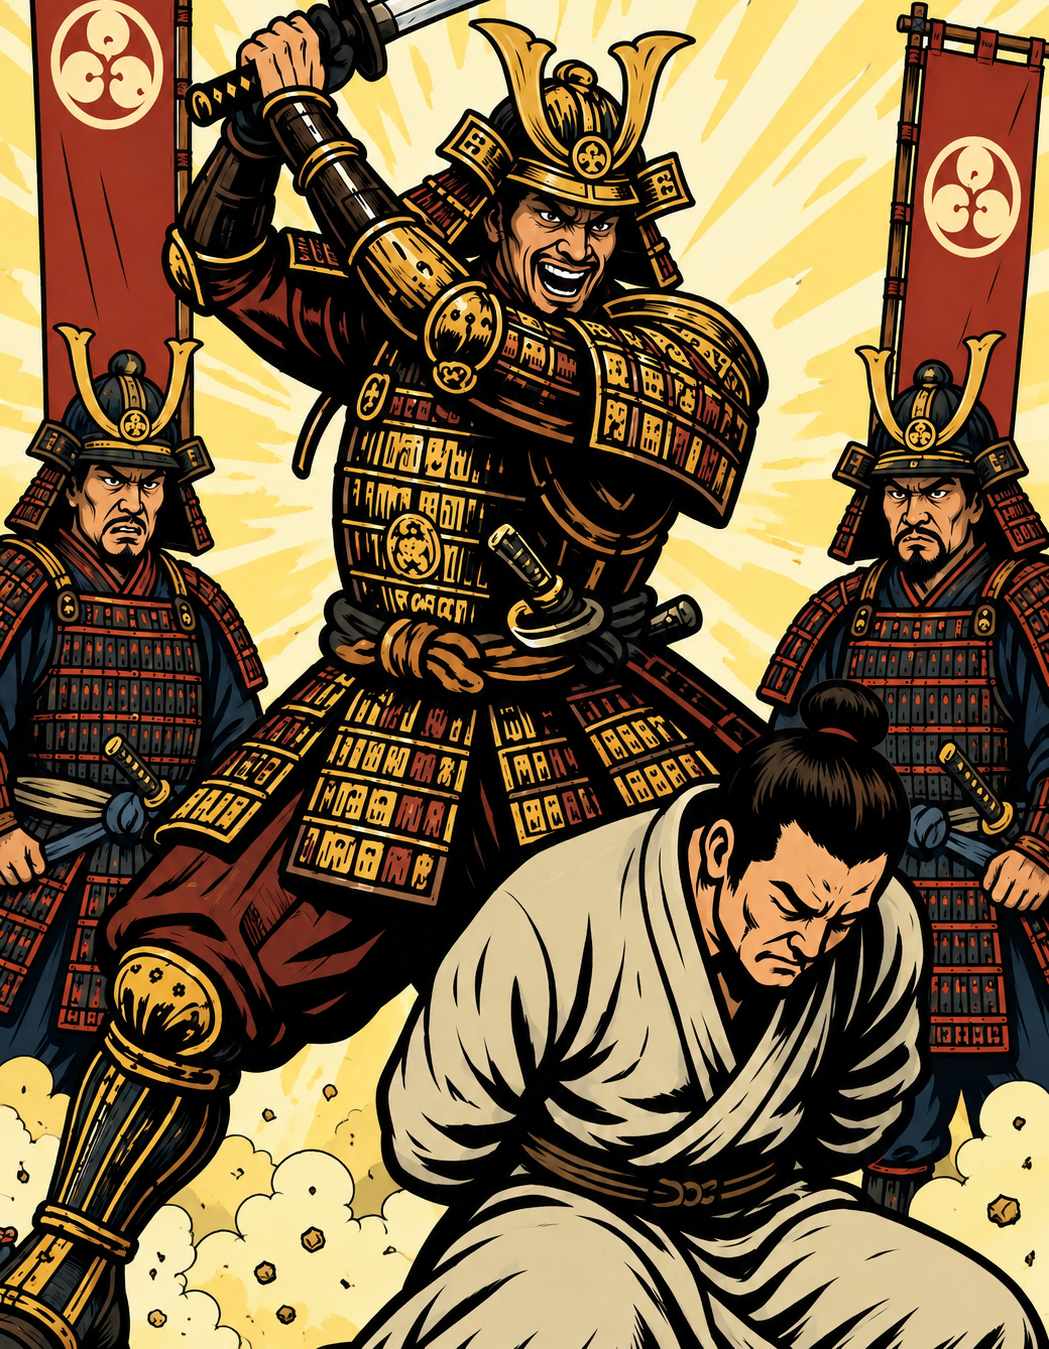
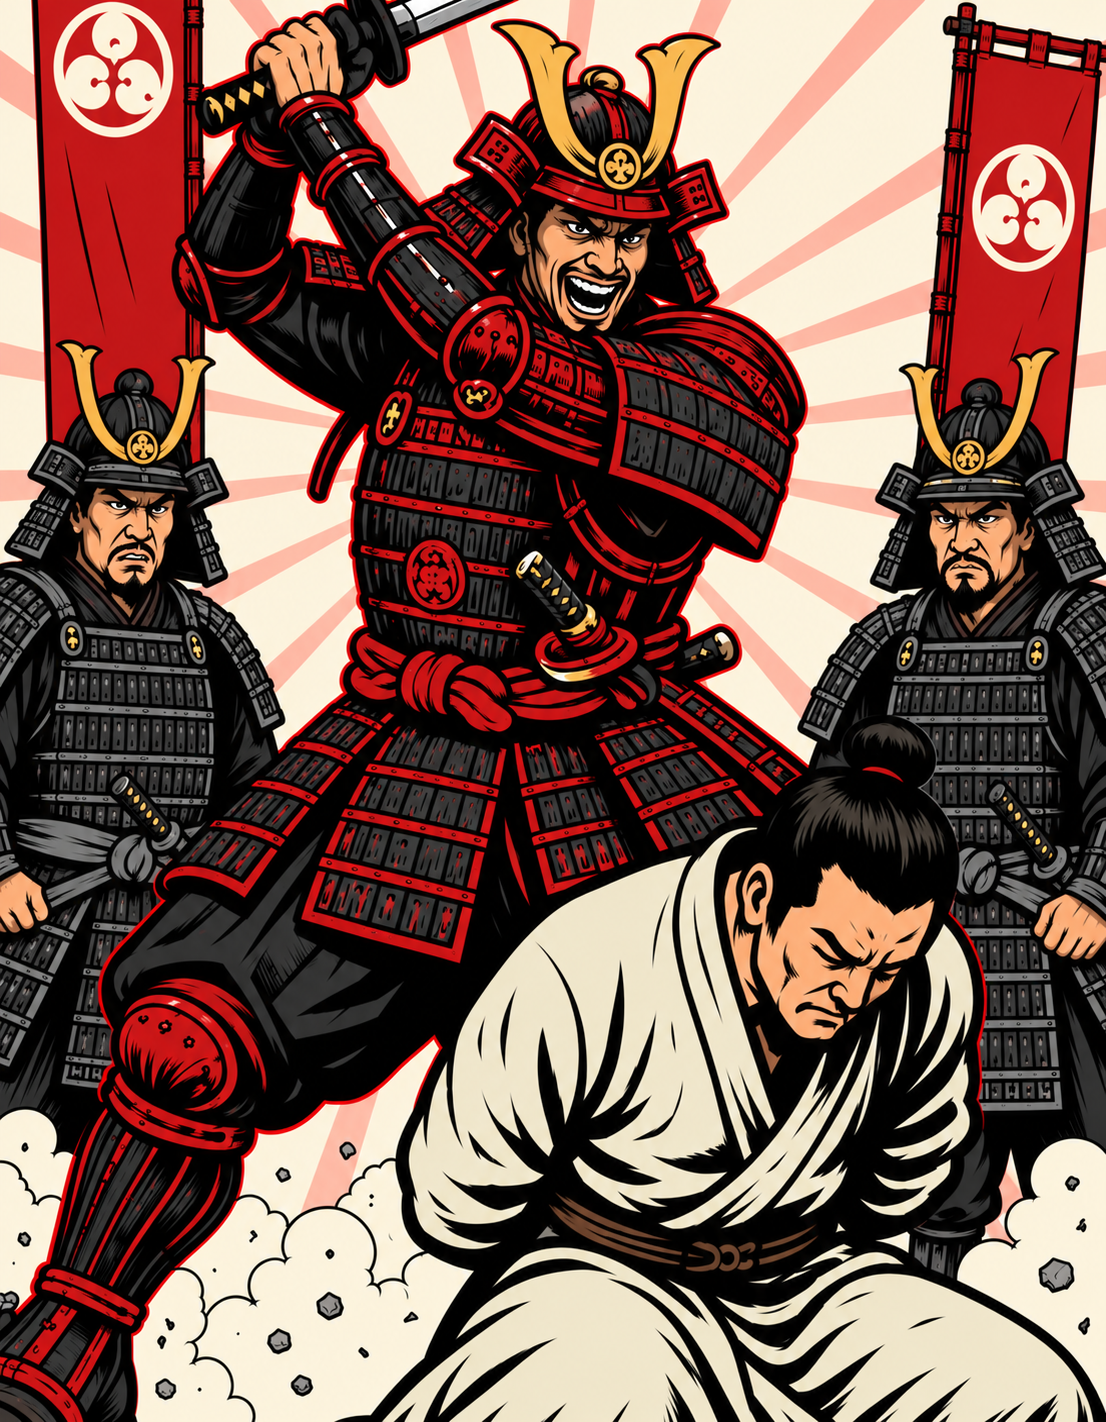
Финальный удар #1081 и Победный удар #1084: новый арт
Арт обеих карт заменён (работа соседней сессии), прежние версии — в
cards/obsolete/ (_v1, у Победного удара ещё _v2_red). Картам поставлен
toPrint. Коммит перед сборкой PDF для депонирования, чтобы снимок на
титуле совпадал с репозиторием.

diff --git a/js/cards.js b/js/cards.js
@@ -1478,7 +1478,7 @@ const CARDS = [
     qty: 1,
     group: "modifier",
     icons: [],
-    tags: [],
+    tags: ["toPrint"],
     desc: "Финальная сила атаки равна количеству недостающих жетонов жизни цели.",
     enDesc: "The attack's final power equals the target's missing life.",
     img: "cards/card_1081_finalnyi_udar.png"
@@ -1504,7 +1504,7 @@ const CARDS = [
     qty: 1,
     group: "modifier",
     icons: [],
-    tags: [],
+    tags: ["toPrint"],
     desc: "Ваше текущее количество жетонов победы добавляется к силе атаки.",
     enDesc: "Add your current victory points to the attack's power.",
     img: "cards/card_1084_pobednyi_udar.png"
